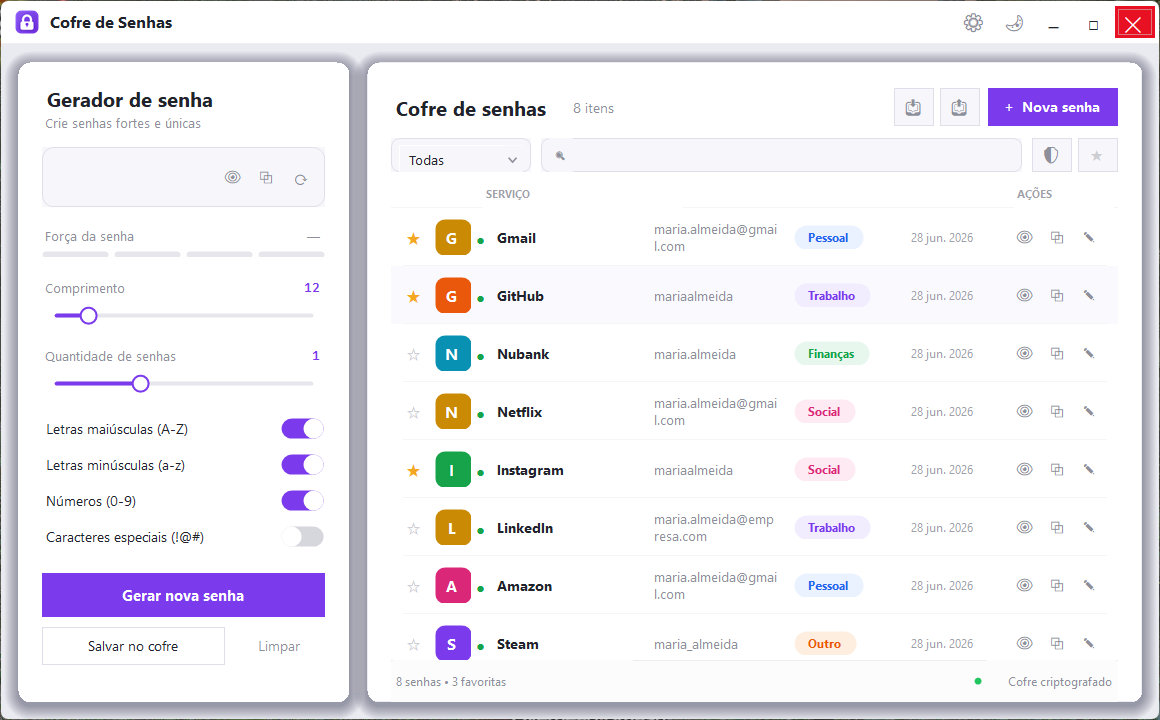
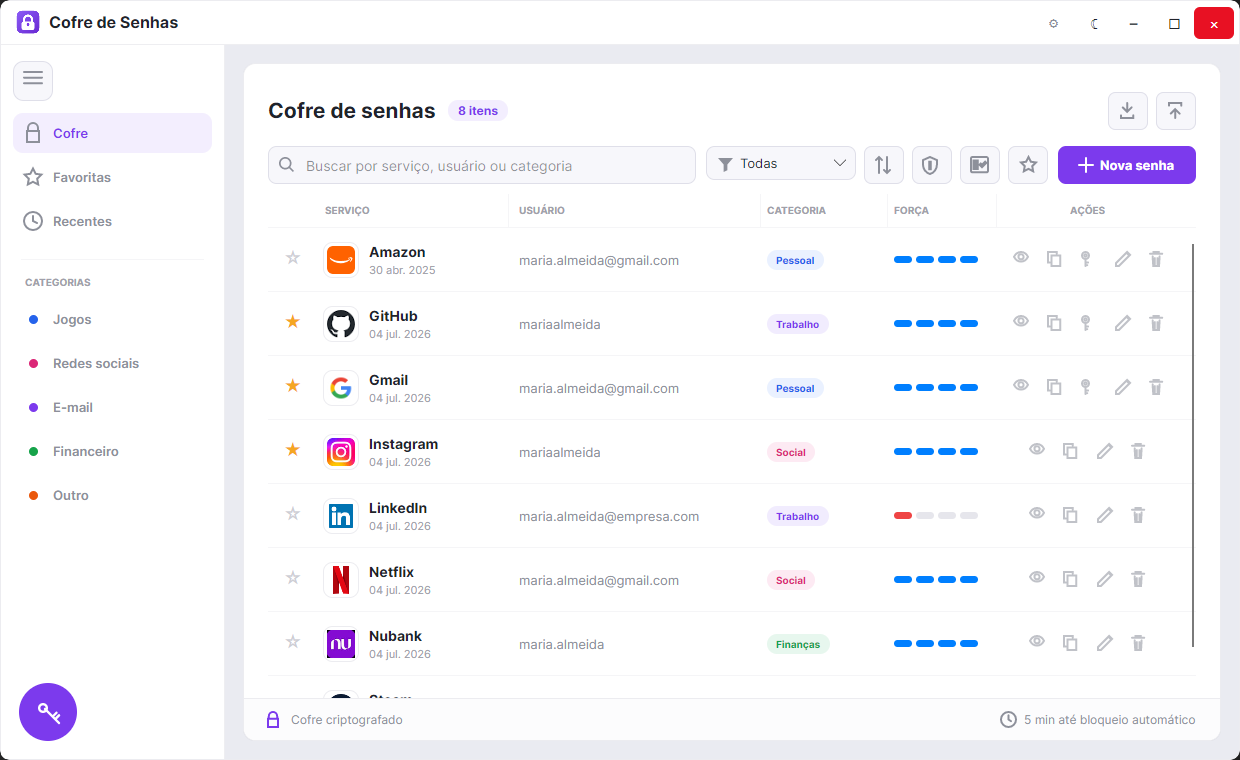
Atualiza o README com capturas novas do app e das funcionalidades

diff --git a/README.md b/README.md
@@ -72,14 +72,18 @@ dados de sua escolha (SQLite, PostgreSQL, MySQL/MariaDB ou SQL Server); nesse
 caso, o cofre local e o banco são sincronizados e mantidos espelhados, sempre
 com a senha armazenada de forma cifrada.
 
-A interface é dividida em dois painéis: à esquerda, o gerador de senhas; à
-direita, o cofre, com a lista de credenciais, busca, filtros e ações por item.
+A janela principal tem uma barra lateral de navegação (cofre, favoritas,
+recentes e categorias) e, ao centro, a lista de credenciais com busca, filtro
+por categoria, auditoria e ações por item. O gerador de senhas abre em um painel
+sob demanda e também aparece lado a lado com o desbloqueio na tela de senha
+mestra, permitindo criar e copiar senhas antes mesmo de abrir o cofre.
 
 ## Capturas de tela
 
-O gerador de senhas fica à esquerda e o cofre à direita. A aplicação oferece
-tema claro e tema escuro, com a preferência persistida entre sessões. As imagens
-abaixo usam dados fictícios apenas para demonstração.
+A tela principal reúne a barra lateral de navegação, a lista de credenciais e o
+status do cofre no rodapé. A aplicação oferece tema claro e tema escuro, com a
+preferência persistida entre sessões. As imagens abaixo usam dados fictícios
+apenas para demonstração.
 
 Tema claro:
 
@@ -88,6 +92,11 @@ Tema claro:
 Tema escuro:
 
 ![Cofre de Senhas no tema escuro](docs/captura-escura.png)
+
+Na tela de senha mestra, o gerador fica à esquerda e o desbloqueio à direita, com
+seletor de idioma e, no Windows, a opção de desbloqueio por Windows Hello:
+
+![Tela de senha mestra com gerador e desbloqueio](docs/tela-login.png)
 
 ## Funcionalidades
 
@@ -108,6 +117,11 @@ Tema escuro:
   e copiar senhas sem abrir o cofre, com a opção de salvar surgindo somente após
   a autenticação.
 
+O painel do gerador, com a senha gerada, o indicador de força e as opções de
+caractere:
+
+![Gerador de senha com senha gerada e indicador de força](docs/gerador.png)
+
 ### Cofre de senhas
 
 - Cadastro, edição e remoção de credenciais, com os campos de serviço, usuário,
@@ -120,6 +134,8 @@ Tema escuro:
   categoria personalizada quando `Outro` é selecionada.
 - Busca em tempo real por serviço, usuário ou categoria personalizada, com filtro
   por categoria no mesmo seletor.
+- Barra lateral de navegação com atalhos para o cofre completo, os favoritos, os
+  itens recentes e cada categoria.
 - Indicador de força por senha armazenada.
 - Verificação de senhas comprometidas via Have I Been Pwned.
 - Auditoria local para detectar senhas fracas, repetidas ou sem atualização há
@@ -133,6 +149,16 @@ Tema escuro:
 - Edição inline do nome do serviço diretamente na lista.
 - Cópia do usuário com um clique na coluna `Usuário`, exibindo confirmação
   visual temporária na linha.
+
+A edição de uma credencial reúne serviço, usuário, senha, URL, categoria e notas,
+com o código TOTP calculado ao vivo e o histórico das senhas anteriores:
+
+![Edição de credencial com código TOTP ao vivo e histórico de senhas](docs/editar-credencial.png)
+
+A auditoria marca na própria lista as senhas fracas, repetidas ou sem atualização
+há muito tempo, tudo localmente e sem enviar nada para fora:
+
+![Lista do cofre com marcações de auditoria de senhas](docs/auditoria.png)
 
 ### Segurança e autenticação
 
@@ -189,6 +215,12 @@ Tema escuro:
 - Ícone próprio no executável, na janela e na bandeja do sistema (onde o
   ambiente gráfico oferece suporte).
 - Mesma interface e comportamento no Windows e no Linux.
+
+O menu de configurações reúne a alteração da senha mestra, o bloqueio automático,
+o idioma, a acessibilidade, a importação de CSV, a conexão a banco de dados e o
+Windows Hello:
+
+![Menu de configurações do aplicativo](docs/configuracoes.png)
 
 ## Modelo de segurança
 
